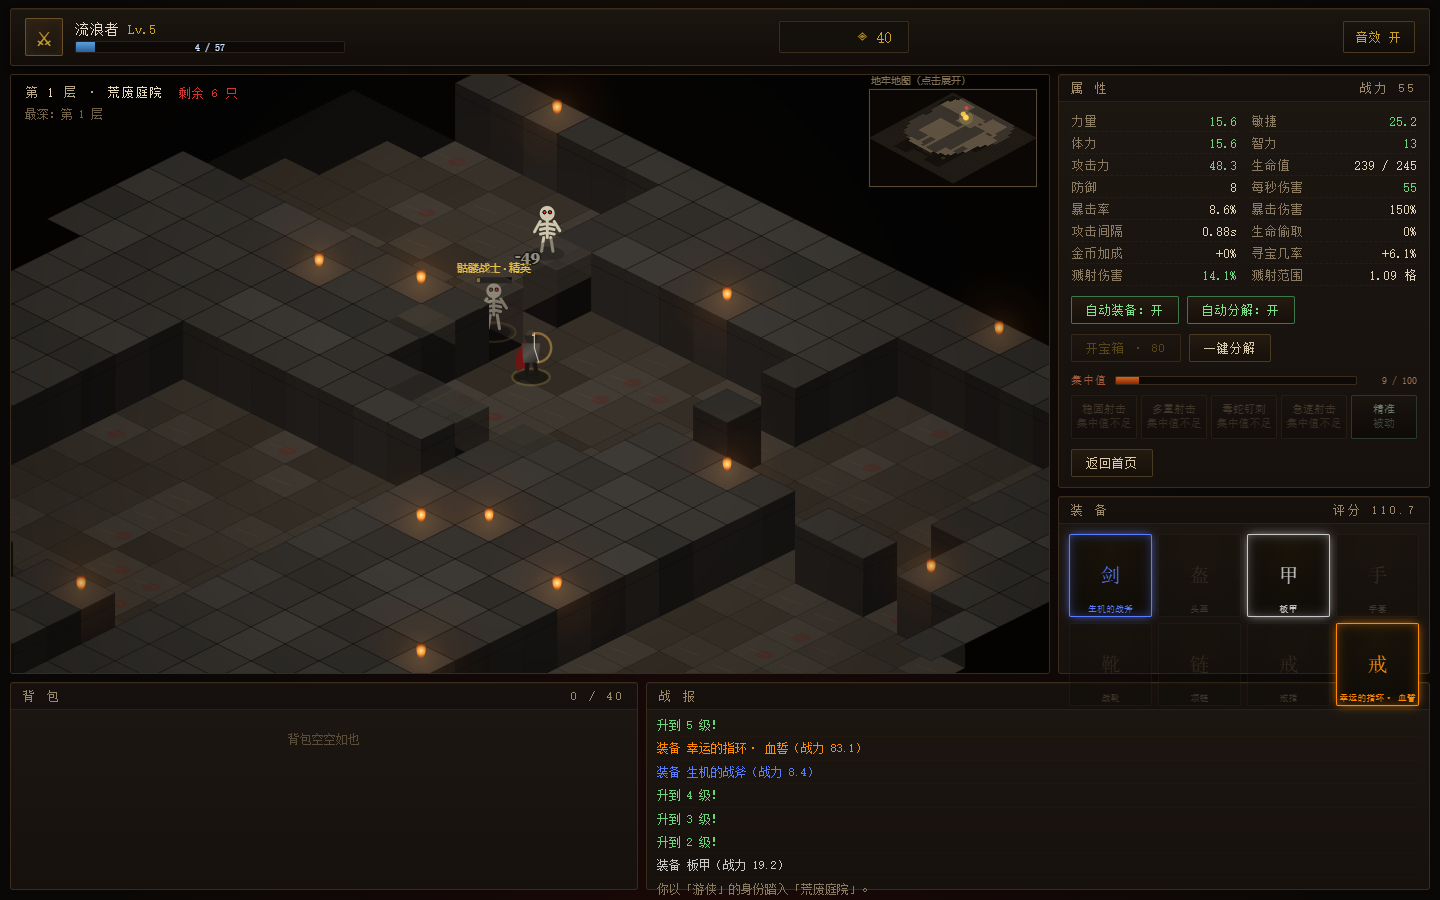
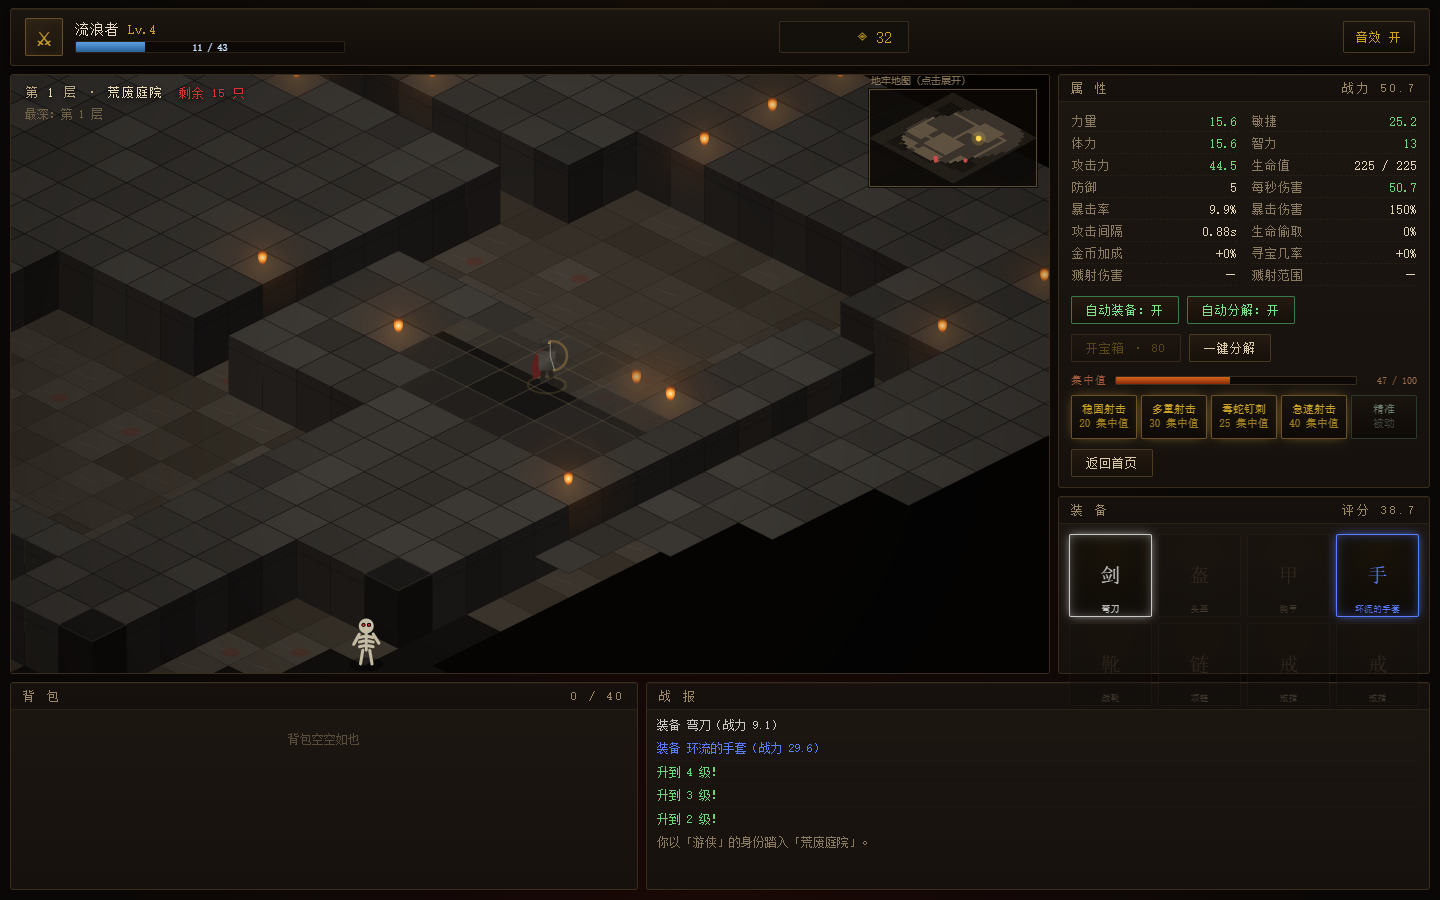
balance: 统一视野 10 格，削弱游侠
- 战士/游侠视野统一为 10 格
- 游侠攻击距离 5.5 → 4.2 格
- 游侠攻击系数 1.6 → 1.45（敏捷转化攻击降低）
- 1 小时模拟：游侠 37 层/1122 击杀/18 死亡（战士 39 层/1151/34）

diff --git a/js/data.js b/js/data.js
@@ -115,7 +115,7 @@
       base: { str: 18, agi: 12, vit: 16, int: 6 },
       growth: { str: 2.8, agi: 1.2, vit: 1.8, int: 1.0 },
       atkCoef: 2.0,
-      sight: 6,
+      sight: 10,
       skillPool: [
         'heroicStrike', 'whirlwind', 'charge', 'thunderClap', 'mortalStrike', 'recklessness',
         'secondWind', 'splatter', 'brutalCrit', 'bloodthirst',
@@ -130,8 +130,8 @@
       resource: 'energy',
       base: { str: 12, agi: 18, vit: 12, int: 10 },
       growth: { str: 1.2, agi: 2.4, vit: 1.2, int: 1.0 },
-      atkCoef: 1.6,
-      attackRange: 5.5,
+      atkCoef: 1.45,
+      attackRange: 4.2,
       sight: 10,
       skillPool: [
         'steadyShot', 'multiShot', 'serpentSting', 'disengage', 'trap', 'rapidFire',
